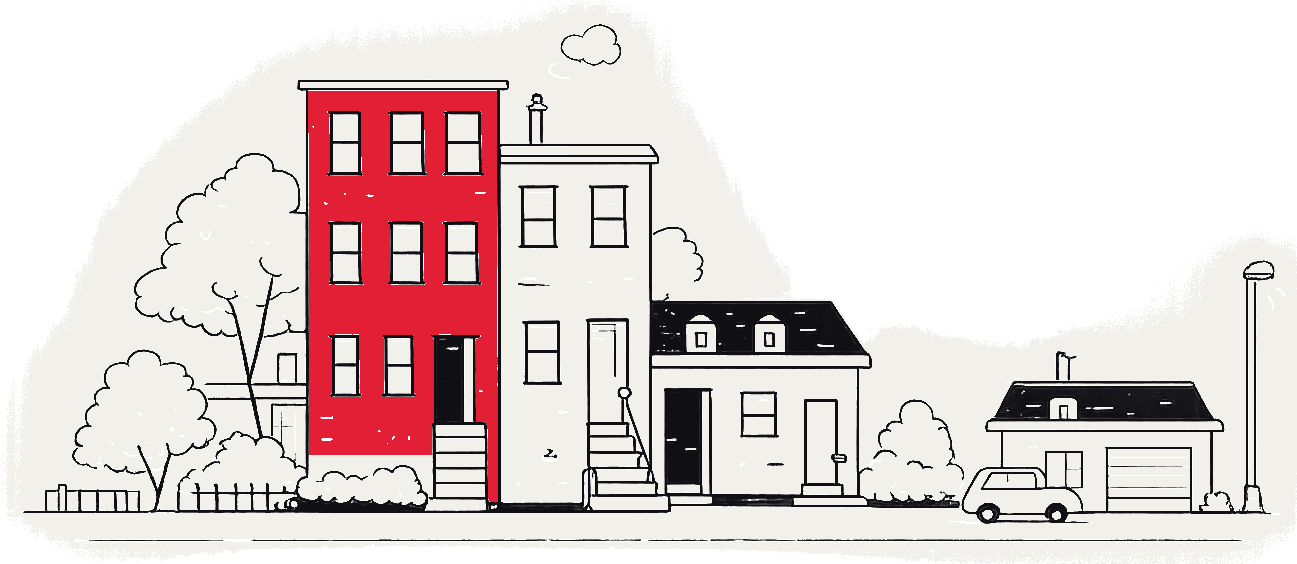
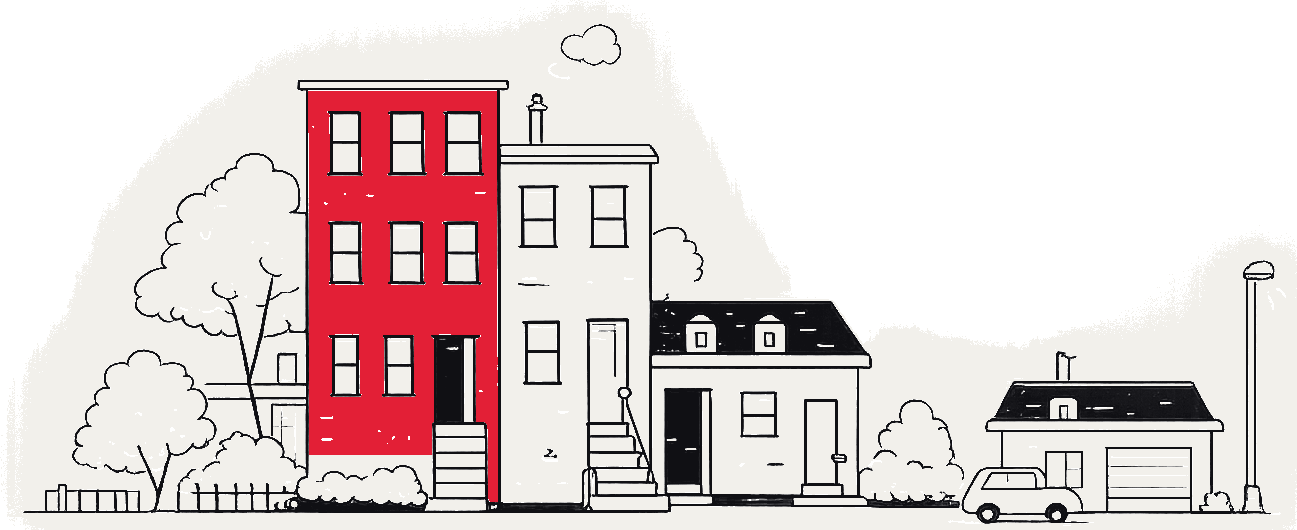
Crop the artwork's own rule, and stop seed rows answering for any month
The street illustration carried a drawn line across its base, separate from the
street itself, which stacked up against the card's divider. Cropped off at the
gap above it (content ends ~y523, the rule sat at y539-540).

agentSeedStats returned July 2026's frozen KPI rows whatever month was asked
for, so a partner looking at June saw July's numbers labelled as June. It now
only answers for the month those rows actually describe.

diff --git a/app/api/my/stats/route.ts b/app/api/my/stats/route.ts
@@ -1,8 +1,13 @@
 import { NextRequest, NextResponse } from "next/server";
 import { verifySessionToken, SESSION_COOKIE } from "@/lib/auth";
 import { findById } from "@/lib/users-store";
-import { getAgentFunnel, getAgentPortfolio } from "@/lib/rex-stats";
-import { getPropolyPipelineCount } from "@/lib/propoly-deals";
+import {
+  getAgentAppraisals,
+  getAgentFunnel,
+  getAgentListings,
+  getAgentPortfolio,
+} from "@/lib/rex-stats";
+import { getPropolyAgentDeals } from "@/lib/propoly-deals";
 import { getMoveIns } from "@/lib/payprop-income";
 import { getAgentBook } from "@/lib/payprop-portfolio";
 import { resolveRexUserId } from "@/lib/agent-link";
@@ -21,10 +26,13 @@ import {
 import { formatGBP, formatPct, currentMonth } from "@/lib/format";
 import type {
   ActualOverride,
+  AppraisalsDrillRow,
   ConversionStats,
   FunnelRows,
   FunnelStats,
+  ListingsDrillRow,
   MoveInsDrillRow,
+  PipelineDrillRow,
   StatValue,
 } from "@/lib/types";
 
@@ -136,21 +144,31 @@ export async function GET(req: NextRequest) {
   const rexUserId = await resolveRexUserId(user);
 
   // Gather the layers in parallel — each one degrades to null/[] alone.
-  const [live, livePortfolio, meta, overrides, propolyPipeline] = await Promise.all([
-    rexUserId
-      ? getAgentFunnel(rexUserId, month).catch(() => null)
-      : Promise.resolve(null),
-    rexUserId
-      ? getAgentPortfolio(rexUserId).catch(() => null)
-      : Promise.resolve(null),
-    getAgentMetaStats(user).catch(() => ({ configured: false as const })),
-    getOverrides(month).catch(() => [] as ActualOverride[]),
-    getPropolyPipelineCount({ email: user.email, agentKey: user.agentKey ?? null }).catch(
-      () => null
-    ),
-  ]);
+  // The REX pulls double as the drill-down sources: each funnel figure below is
+  // counted from the very array it hands the dashboard, so a tile can never
+  // disagree with the list it opens.
+  const [live, livePortfolio, meta, overrides, propolyDeals, liveListings, liveAppraisals] =
+    await Promise.all([
+      rexUserId
+        ? getAgentFunnel(rexUserId, month).catch(() => null)
+        : Promise.resolve(null),
+      rexUserId
+        ? getAgentPortfolio(rexUserId).catch(() => null)
+        : Promise.resolve(null),
+      getAgentMetaStats(user).catch(() => ({ configured: false as const })),
+      getOverrides(month).catch(() => [] as ActualOverride[]),
+      getPropolyAgentDeals({ email: user.email, agentKey: user.agentKey ?? null }).catch(
+        () => null
+      ),
+      rexUserId ? getAgentListings(rexUserId).catch(() => null) : Promise.resolve(null),
+      rexUserId
+        ? getAgentAppraisals(rexUserId, month).catch(() => null)
+        : Promise.resolve(null),
+    ]);
 
-  const snapshot = agentKey ? agentSeedStats(agentKey) : nullFunnel();
+  // Pass the month: the seed rows only describe July 2026, and returning them
+  // for any other month presented July's numbers as that month's.
+  const snapshot = agentKey ? agentSeedStats(agentKey, month) : nullFunnel();
 
   // ---- Funnel: field-by-field live → manual → snapshot merge ----
   const funnel = {} as FunnelStats;
@@ -173,14 +191,69 @@ export async function GET(req: NextRequest) {
 
   // Pipeline: Propoly outranks everything — it's the system actually running
   // the progression, counted per agent via their property-manager email.
-  if (propolyPipeline != null) {
+  // Cancelled deals come back in the same pull (the drawer's hidden section
+  // uses them), so they're filtered out here rather than counted.
+  let pipelineRows: PipelineDrillRow[] | null = null;
+  if (propolyDeals != null) {
+    const active = propolyDeals.filter((a) => a.stage !== "unsuccessful");
+    pipelineRows = active.map((a) => ({
+      property: [a.propertyName, a.locality].filter(Boolean).join(", "),
+      // Propoly holds every applicant on the deal; the list only has room for
+      // whose name is on it, so the lead tenant plus a count of the rest.
+      tenant:
+        a.tenants.length === 0
+          ? "—"
+          : a.tenants.length === 1
+            ? a.tenants[0].name
+            : `${a.tenants[0].name} +${a.tenants.length - 1}`,
+      stage: a.status,
+      moveIn: a.startDate,
+      rent: a.offer,
+    }));
     funnel.pipeline = {
-      value: propolyPipeline,
+      value: active.length,
       source: "live-propoly",
       note: "Live count of your deals in progression on Propoly — deal started through signing & move-in monies.",
       asOf: new Date().toISOString().slice(0, 10),
     };
   }
+
+  // Listings: the agent's REX "current" listings. The tile counts what's on the
+  // market now (let-agreed excluded, as it always has), but the list shows the
+  // whole current book so a partner can see the let-agreed ones too — both read
+  // off this one array.
+  let listingRows: ListingsDrillRow[] | null = null;
+  if (liveListings != null) {
+    listingRows = liveListings.map((l) => ({
+      address: l.address,
+      rent: l.rent,
+      letAgreed: l.letAgreed,
+      status: l.letAgreed ? "Let agreed" : (l.publicationStatus ?? "On the market"),
+      availableFrom: l.availableFrom,
+    }));
+    const onMarket = listingRows.filter((l) => !l.letAgreed).length;
+    funnel.listings = {
+      value: onMarket,
+      source: "live-rex",
+      note: `Live from REX — ${onMarket} on the market now${
+        listingRows.length - onMarket > 0
+          ? `, plus ${listingRows.length - onMarket} let agreed`
+          : ""
+      }.`,
+      asOf: new Date().toISOString().slice(0, 10),
+    };
+  }
+
+  // Market appraisals: the same records getAgentFunnel counted the tile from
+  // (it calls getAgentAppraisals too, and the result is cached), so the figure
+  // above and the list below are one array.
+  const appraisalRows: AppraisalsDrillRow[] | null = liveAppraisals
+    ? liveAppraisals.rows.map((a) => ({
+        property: a.address,
+        date: a.date,
+        kind: a.kind,
+      }))
+    : null;
 
   // Move-ins: PayProp knows which tenancies started this month and the
   // portfolio book knows whose properties they are, so the two join on
@@ -322,7 +395,12 @@ export async function GET(req: NextRequest) {
     funnel,
     // Drill-down rows. Only the stages joined to a real source appear here;
     // the rest stay null so the dashboard can label them honestly.
-    funnelRows: { moveIns: moveInRows } satisfies FunnelRows,
+    funnelRows: {
+      marketAppraisals: appraisalRows,
+      listings: listingRows,
+      moveIns: moveInRows,
+      pipeline: pipelineRows,
+    } satisfies FunnelRows,
     conversions,
     portfolio,
     // Full snapshot mix (managed / let-only / RLP / avg rent) for the donut.

diff --git a/lib/seed-data.ts b/lib/seed-data.ts
@@ -670,10 +670,18 @@ function statFrom(value: number | null, src: string): StatValue {
  * Per-agent funnel stats for July MTD, from the Agent Detail KPI table.
  * Agents not in the table (e.g. Tony Poon in July) get all-null StatValues.
  */
-export function agentSeedStats(agentKey: string): FunnelStats {
+/** The month the frozen KPI rows describe. */
+const SNAPSHOT_MONTH = "2026-07";
+
+export function agentSeedStats(agentKey: string, month?: string): FunnelStats {
   const row = SEED.agentKpisJulyMtd.rows.find((r) => nameMatchesAgent(r.agent, agentKey));
   const src = "REX KPI reports · Agent Detail tab · Jul MTD";
-  if (!row) {
+  // These rows are July 2026 month-to-date, frozen from the KPI report. They
+  // were being returned for whatever month was asked for, so a partner looking
+  // at June saw July's numbers labelled as June — silently wrong, and the kind
+  // of thing someone builds a decision on. Only answer for the month they
+  // actually describe.
+  if (!row || (month && month !== SNAPSHOT_MONTH)) {
     return {
       marketAppraisals: nullStat(),
       listings: nullStat(),
